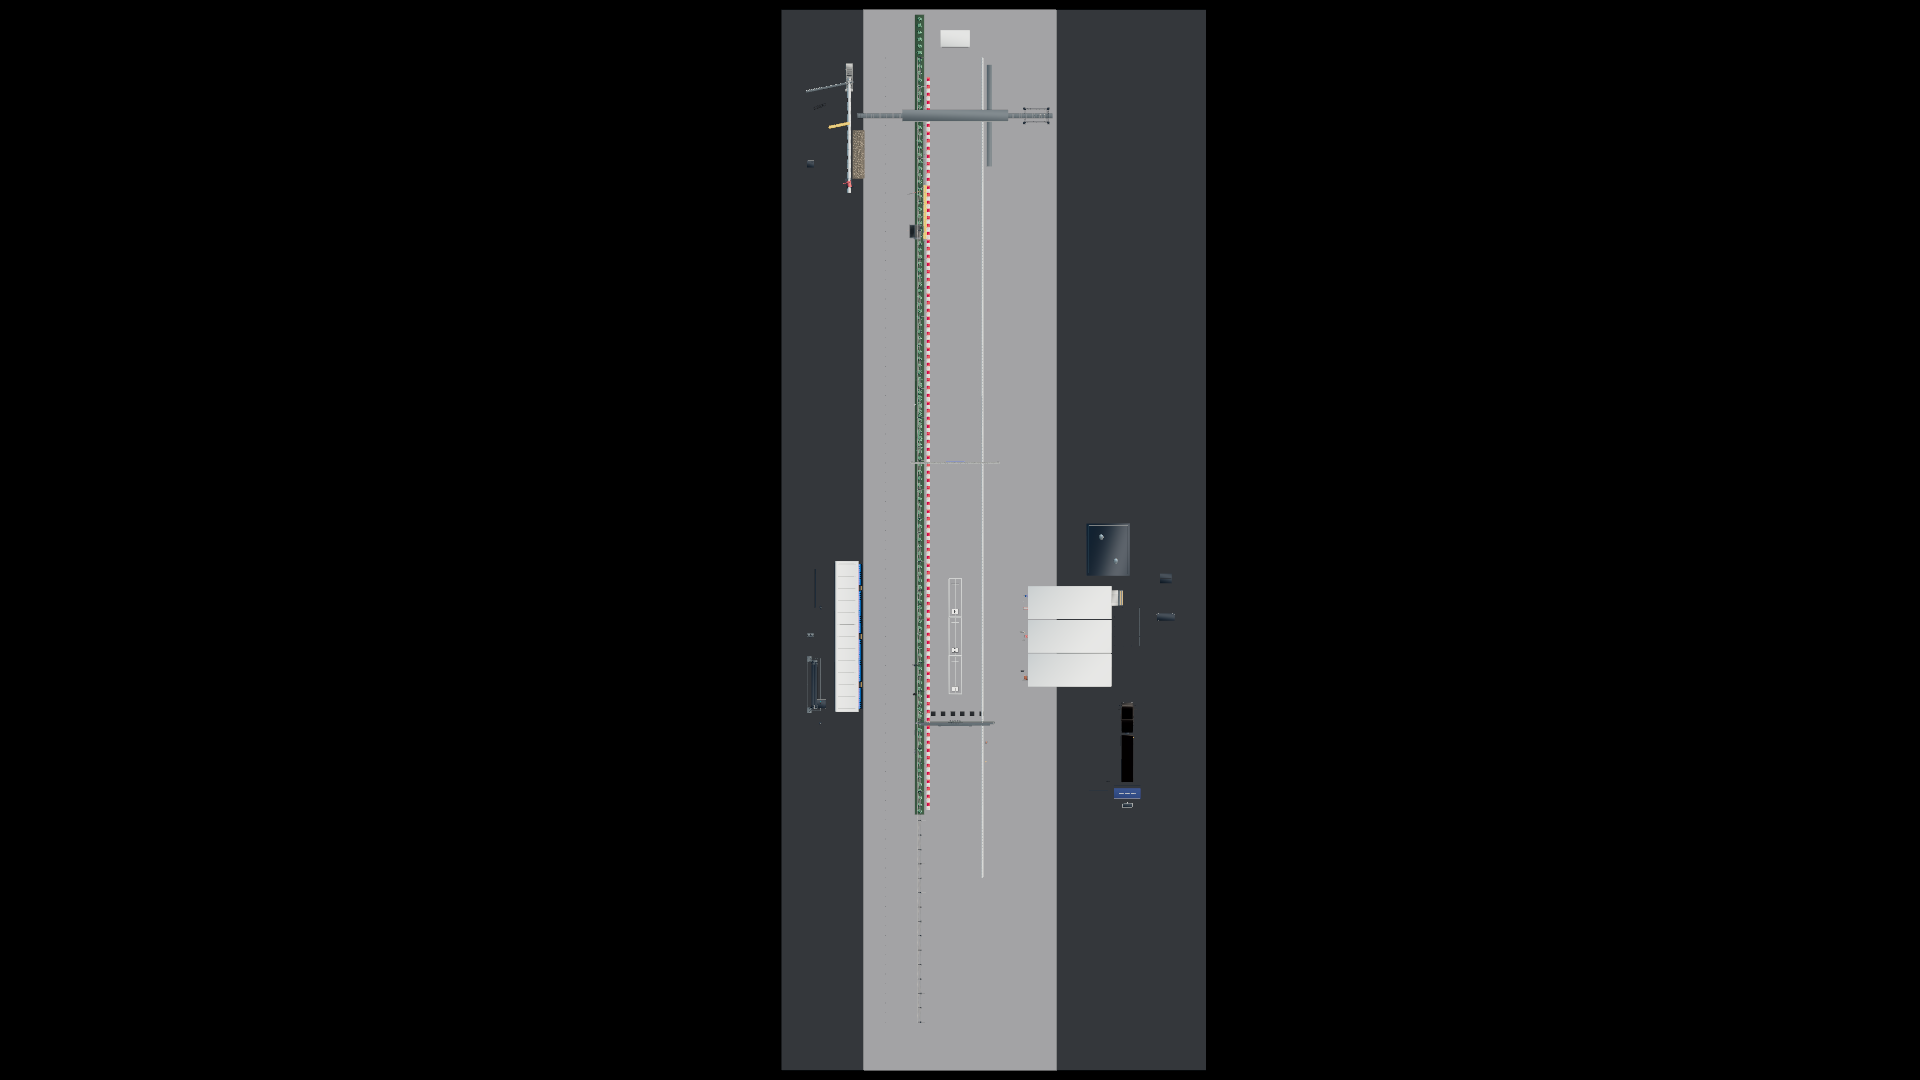
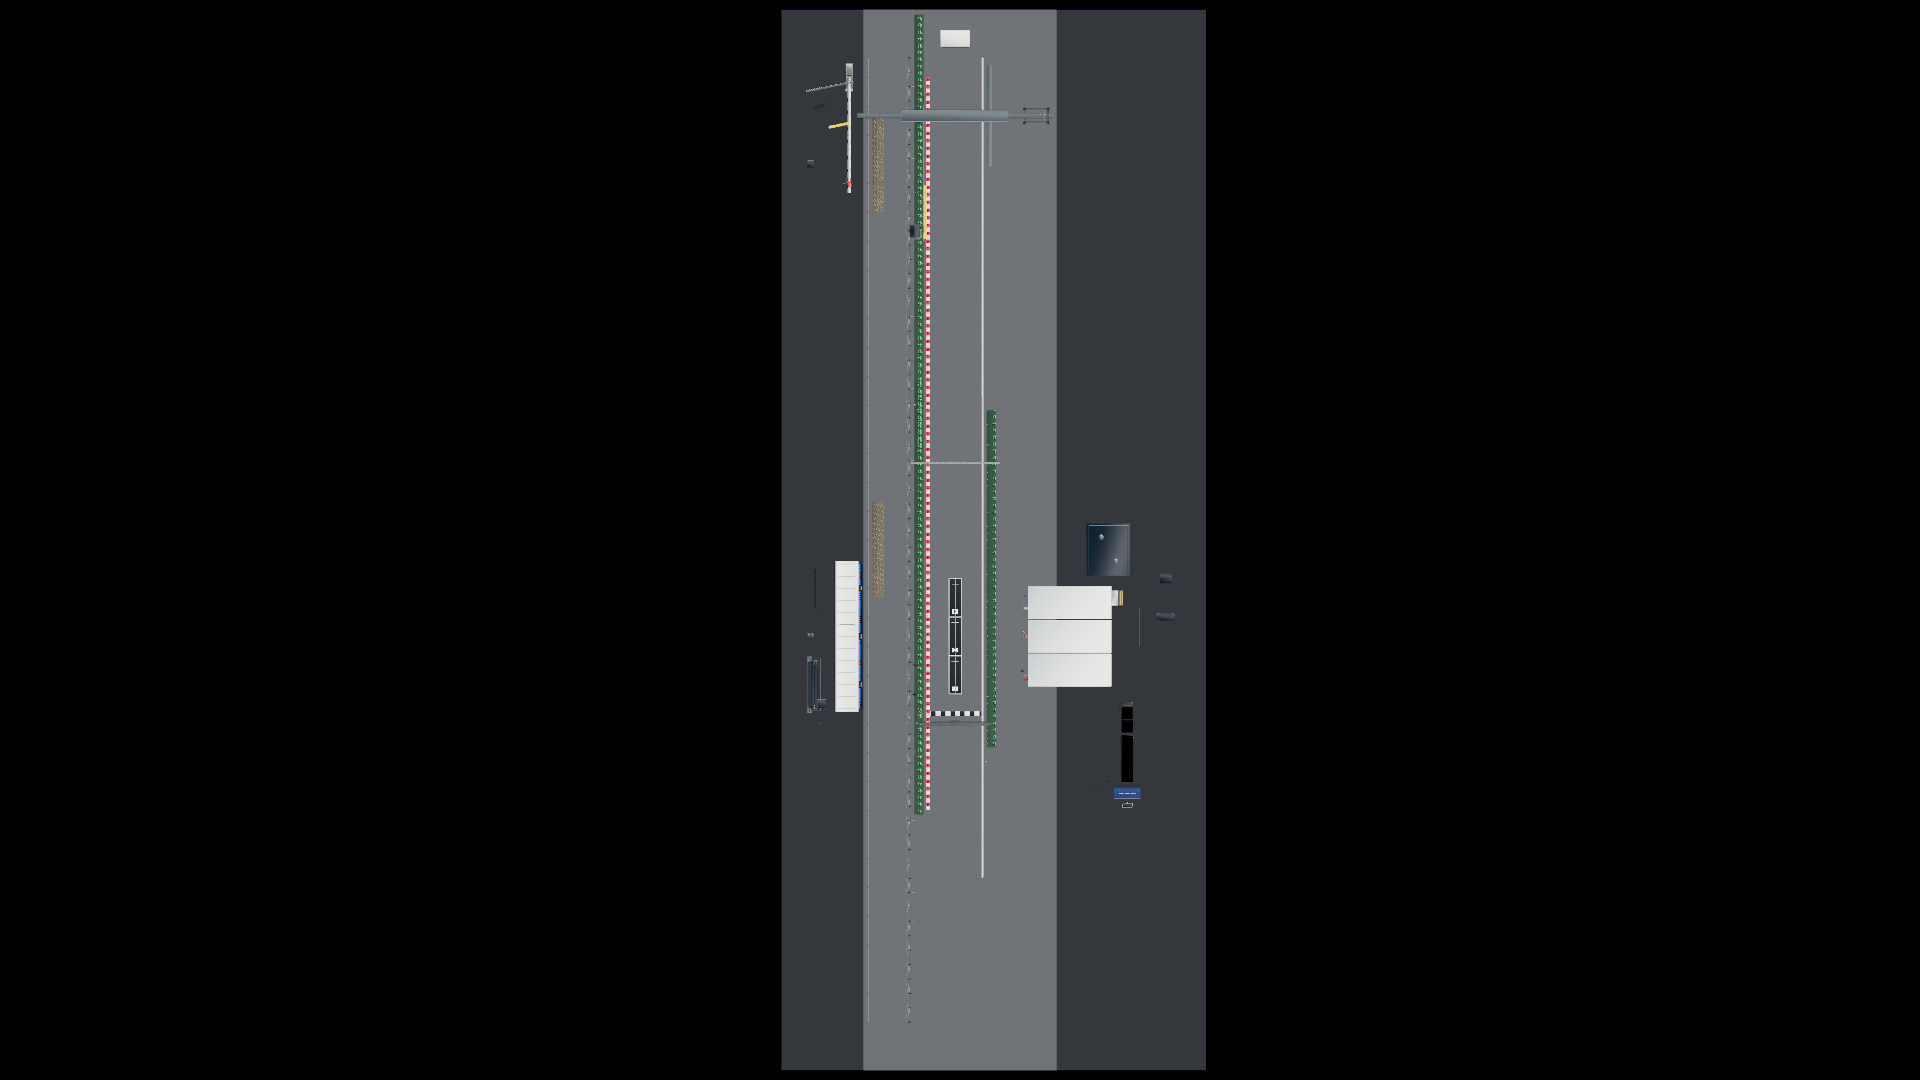
feat(f1-kit): unbury grid tiles, show turf and gravel verges
Scene asphalt was at y=12 mm, which buried the grid-box pads and SF
chequer (tops at 6–8 mm). Drop the road under the paint. Catch fence
moves outboard so the 2 m astroturf reads, with gravel beds on the verge.

Changed region(s): [[0.4375, 0.0, 0.5625, 1.0]]

diff --git a/assets/f1-prototypes/f1-kit-scene/kit-scene.ts b/assets/f1-prototypes/f1-kit-scene/kit-scene.ts
@@ -149,7 +149,7 @@ export function createScene(): F1KitScene {
 
   const asphaltMat = new MeshStandardMaterial({
     name: 'f1-kit / scene asphalt',
-    color: shade(TOKEN.INK_950, 0.42),
+    color: shade(TOKEN.INK_950, 0.22),
     roughness: 0.92,
     metalness: 0,
   })
@@ -174,10 +174,12 @@ export function createScene(): F1KitScene {
   root.add(ground)
   extras.push({ dispose: () => { ground.geometry.dispose() } })
 
+  // Keep this *under* grid-box pads (top 6 mm) and SF chequer (top 8 mm).
+  // At y=0.012 those tiles were buried and only the numbers poked through.
   const road = new Mesh(new PlaneGeometry(ROAD_W, ROAD_LEN), asphaltMat)
   road.name = 'scene-asphalt'
   road.rotation.x = -Math.PI / 2
-  road.position.set(ROAD_X, 0.012, ROAD_Z)
+  road.position.set(ROAD_X, 0.001, ROAD_Z)
   road.receiveShadow = true
   root.add(road)
   extras.push({ dispose: () => { road.geometry.dispose() } })
@@ -195,9 +197,11 @@ export function createScene(): F1KitScene {
   add(createSausageKerb({ modules: 14 }), RIBBON_HALF + 0.3, 88, ALONG)
   add(createSlotDrain({ modules: 50 }), -(RIBBON_HALF - 0.35), 0, ALONG)
   add(createSlotDrain({ modules: 40 }), -(RIBBON_HALF - 0.35), 80, ALONG)
-  add(createAstroturf({ modules: 90 }), RIBBON_HALF + 1.4, 8, ALONG)
-  add(createAstroturf({ modules: 90 }), RIBBON_HALF + 1.4, 84, ALONG)
-  add(createGravelTrap({ modules: 4 }), 20, END_Z - 8, ALONG)
+  add(createAstroturf({ modules: 90 }), RIBBON_HALF + 1.5, 8, ALONG)
+  add(createAstroturf({ modules: 90 }), RIBBON_HALF + 1.5, 84, ALONG)
+  add(createAstroturf({ modules: 70 }), -(RIBBON_HALF + 1.5), 12, ALONG)
+  add(createGravelTrap({ modules: 8 }), 16, 18, ALONG)
+  add(createGravelTrap({ modules: 8 }), 16, END_Z - 10, ALONG)
 
   // Pit (−X): garage + tools on the door line. No wall/barriers on this apron.
   add(createGarageBox({ count: 3, number: '11', legend: 'CHECO' }), GARAGE_X, 0, FACE_PIT)
@@ -214,8 +218,8 @@ export function createScene(): F1KitScene {
   add(createExtinguisher(), TOOL_X + 0.45, GARAGE_BAY_PITCH + 0.2)
 
   // Spectator (+X): fence and stand wall. Fence runs the full asphalt.
-  add(createCatchFence({ length: 200, height: 5 }), RIBBON_HALF + 1.15, ROAD_Z, ALONG)
-  add(createCrowdFence({ length: 200 }), 14.5, ROAD_Z, ALONG)
+  add(createCatchFence({ length: 200, height: 5 }), RIBBON_HALF + 3.4, ROAD_Z, ALONG)
+  add(createCrowdFence({ length: 200 }), 18, ROAD_Z, ALONG)
   add(createGrandstandBay({ rows: 6, width: 10 }), STAND_X, -STAND_PITCH, FACE_SPEC)
   add(createGrandstandBay({ rows: 6, width: 10 }), STAND_X, 0, FACE_SPEC)
   add(createGrandstandBay({ rows: 6, width: 10 }), STAND_X, STAND_PITCH, FACE_SPEC)
